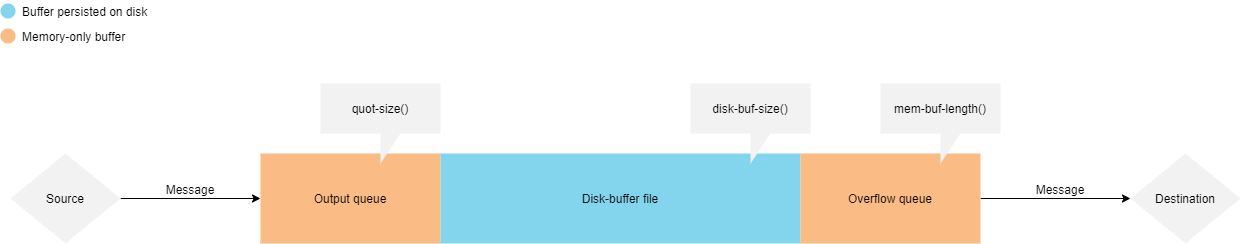
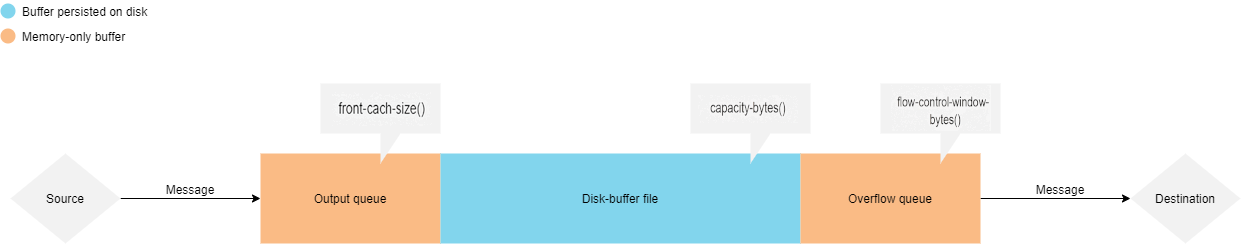
disk-buffer: replace old option keywords with the actual ones

Changed region(s): [[0.7043, 0.4016, 0.7961, 0.5164], [0.5512, 0.4303, 0.643, 0.4877], [0.2756, 0.4303, 0.3368, 0.4877]]

diff --git a/doc/_admin-guide/080_Log/020_Buffering/README.md b/doc/_admin-guide/080_Log/020_Buffering/README.md
@@ -53,21 +53,21 @@ no, {{ site.product.short_name }} handles outgoing messages the following way:
     the disk-buffer file during {{ site.product.short_name }} reload, restart or stop,
     but they cannot be persisted if in the event of power failures, or
     if {{ site.product.short_name }} crashes. By default, the output queue can hold 1000
-    messages (you can adjust this number using the quot-size() option).
+    messages (you can adjust this number using the front-cache-size() option).
 
 - *Disk-buffer file*: Disk queue. If there is no space left in the
     output queue, the message is stored on the disk-buffer file.
     Messages stored here are persisted on the disk, even in case of
     power failures or if {{ site.product.short_name }} crashes. Using the disk-buffer
     file takes considerable amount of disk I/O and processor time. The
-    size of this queue can be set with the disk-buf-size() option.
+    size of this queue can be set with the capacity-bytes() option.
 
 - *Overflow queue*: In-memory queue. This queue is used to trigger
     flow-control if it is set. The contents of the in-memory overflow
     queue are persisted to the disk-buffer file in case of {{ site.product.short_name }}
     reload, restart or stop, but they are not persisted in case of power
     failures or if {{ site.product.short_name }} crashes. Setting the size of the
-    overflow queue can be done with the mem-buf-length() option.
+    overflow queue can be done with the flow-control-window-size() option.
 
 ![]({{ site.baseurl}}/assets/images/caution.png) **CAUTION:**
 Hazard of data loss! In case of normal disk-buffers, the messages stored
@@ -83,15 +83,15 @@ failures or if {{ site.product.short_name }} crashes.
 When you use disk-based buffering, and the reliable() option is set to
 yes, {{ site.product.short_name }} handles outgoing messages the following way.
 
-The mem-buf-size() option determines when flow-control is triggered.
-After the size of the disk-buffer file reaches (disk-buf-size() minus
-mem-buf-size()), messages are written into both the disk-buffer file and
+The flow-control-window-bytes() option determines when flow-control is triggered.
+After the size of the disk-buffer file reaches (capacity-bytes() minus
+flow-control-window-bytes()), messages are written into both the disk-buffer file and
 the overflow queue, indicating that flow-control needs to slow down the
 message source. These messages are not taken out from the control window
 (governed by log-iw-size()), causing the control window to fill up.
 
 If the control window is full, the flow-control completely stops reading
-incoming messages from the source. (As a result, mem-buf-size() must be
+incoming messages from the source. (As a result, flow-control-window-bytes() must be
 at least as large as log-iw-size() times the average message size.)
 
 ### Figure 18: Handling outgoing messages in {{ site.product.short_name }} with the reliable disk-buffer option
@@ -106,18 +106,18 @@ at least as large as log-iw-size() times the average message size.)
     faster, because {{ site.product.short_name }} can skip reading from the disk, and
     deserializing the message, saving I/O and processor time. By
     default, the output queue can hold 1000 messages (you can adjust it
-    using the quot-size() option).
+    using the front-cache-size() option).
 
 - *Disk-buffer file*: Disk queue. If there is no space left in the
     output queue, the message is stored on the disk-buffer file.
     Messages stored here are persisted on the disk, and survive
     {{ site.product.short_name }} crash or power failure. Using the disk-buffer file
     takes considerable amount of disk I/O and processor time. The size
-    of this queue can be set with the disk-buf-size() option.
+    of this queue can be set with the capacity-bytes() option.
 
 - *Overflow queue*: In-memory and disk queue. This queue is used to
     trigger flow-control if it is set. Similarly to the output queue, in
     case of reliable disk-buffer in addition to storing the message in
     memory, it is stored directly in the disk-buffer file as well for
     safety reasons. Setting the size of the overflow queue can be done
-    with the mem-buf-size() option.
+    with the flow-control-window-bytes() option.

diff --git a/doc/_admin-guide/080_Log/020_Buffering/004_About_diskbuffer_files.md b/doc/_admin-guide/080_Log/020_Buffering/004_About_diskbuffer_files.md
@@ -18,31 +18,31 @@ Protocol (ALTP). Note that the Advanced Log Transport Protocol is
 available only in syslog-ng Premium Edition version 6 LTS. Of course, using the reliable(yes) option introduces a significant performance penalty as well.
 
 Both reliable and normal disk-buffers employ an in-memory output queue
-(set in quot-size()) and an in-memory overflow queue (set in
-mem-buf-size() for reliable disk-buffers, or mem-buf-length() for normal
+(set in front-cache-size()) and an in-memory overflow queue (set in
+flow-control-window-bytes() for reliable disk-buffers, or flow-control-window-size() for normal
 disk-buffers). The difference between reliable and normal disk-buffers
 is that when the reliable disk-buffer uses one of its in-memory queues,
 it also stores the message on the disk, whereas the normal disk-buffer
 stores the message only in memory. The normal disk-buffer only uses the
 disk if the in-memory output buffer is filled up completely. This
 approach has better performance (due to fewer disk I/O operations), but
-also carries the risk of losing a maximum of quot-size() plus
-mem-buf-length() number of messages in case of an unexpected power
+also carries the risk of losing a maximum of front-cache-size() plus
+flow-control-window-size() number of messages in case of an unexpected power
 failure or application crash.
 
 ## Size of the queue files
 
-Disk queue files tend to grow. Each may take up to disk-buf-size() bytes
+Disk queue files tend to grow. Each may take up to capacity-bytes() bytes
 on the disk. Due to the nature of reliable queue files, all the messages
 traversing the queue are written to disk, constantly increasing the size
 of the queue file.
 
 The disk-buffer file\'s size should be considered as the configured
-disk-buf-size() at any point of time, even if it does not have messages
+capacity-bytes() at any point of time, even if it does not have messages
 in it. Truncating the disk-buffer file can slow down disk I/O
 operations, so {{ site.product.short_name }} does not always truncate the file when it
 would be possible (see the truncate-size-ratio() option). If a large
-disk-buffer file is not desirable, you should set the disk-buf-size()
+disk-buffer file is not desirable, you should set the capacity-bytes()
 option to a smaller value.
 
 ![]({{ site.baseurl}}/assets/images/caution.png) **CAUTION:**

diff --git a/doc/_admin-guide/050_The_configuration_file/006_Modules_in_syslog-ng/001_Listing_configuration_options.md b/doc/_admin-guide/050_The_configuration_file/006_Modules_in_syslog-ng/001_Listing_configuration_options.md
@@ -57,14 +57,14 @@ The syslog-ng-cfg-helper utility has the following options:
             capacity-bytes(<number>)
             compaction(<yesno>)
             dir(<string>)
-            disk-buf-size(<number>)
+            capacity-bytes(<number>)
             flow-control-window-bytes(<nonnegative-integer>)
             flow-control-window-size(<nonnegative-integer>)
             front-cache-size(<nonnegative-integer>)
-            mem-buf-length(<nonnegative-integer>)
-            mem-buf-size(<nonnegative-integer>)
+            flow-control-window-size(<nonnegative-integer>)
+            flow-control-window-bytes(<nonnegative-integer>)
             prealloc(<yesno>)
-            qout-size(<nonnegative-integer>)
+            front-cache-size(<nonnegative-integer>)
             reliable(<yesno>)
             truncate-size-ratio(<nonnegative-float>)
         )

diff --git a/doc/_admin-guide/180_Best_practices_and_examples/005_Load_balancing_logs/000_Round_robin.md b/doc/_admin-guide/180_Best_practices_and_examples/005_Load_balancing_logs/000_Round_robin.md
@@ -29,7 +29,7 @@ destination d_lb_network {
       }; 
       destination { 
         network("myhost1" 
-          disk-buffer(mem-buf-length(10000) disk-buf-size(2000000))); 
+          disk-buffer(flow-control-window-size(10000) capacity-bytes(2000000))); 
       }; 
       flags(final); 
     }; 
@@ -41,7 +41,7 @@ destination d_lb_network {
 
     destination { 
       network("myhost2" 
-        disk-buffer(mem-buf-length(10000) disk-buf-size(2000000))); 
+        disk-buffer(flow-control-window-size(10000) capacity-bytes(2000000))); 
     }; 
     flags(final); 
     }; 

diff --git a/doc/_admin-guide/080_Log/020_Buffering/000_Enabling_reliable_diskbuffer.md b/doc/_admin-guide/080_Log/020_Buffering/000_Enabling_reliable_diskbuffer.md
@@ -21,8 +21,8 @@ destination d_BSD {
     network("127.0.0.1"
         port(3333)
         disk-buffer(
-            mem-buf-size(10000)
-            disk-buf-size(2000000)
+            flow-control-window-bytes(10000)
+            capacity-bytes(2000000)
             reliable(yes)
         )
     );

diff --git a/doc/_admin-guide/080_Log/020_Buffering/001_Enabling_normal_diskbuffer.md b/doc/_admin-guide/080_Log/020_Buffering/001_Enabling_normal_diskbuffer.md
@@ -23,8 +23,8 @@ destination d_BSD {
     network("127.0.0.1"
         port(3333)
         disk-buffer(
-            mem-buf-length(10000)
-            disk-buf-size(2000000)
+            flow-control-window-size(10000)
+            capacity-bytes(2000000)
             reliable(no)
         )
     );

diff --git a/doc/_admin-guide/080_Log/020_Buffering/002_How_to_get_information/005_How_to_process_orphan_diskbuffer.md b/doc/_admin-guide/080_Log/020_Buffering/002_How_to_get_information/005_How_to_process_orphan_diskbuffer.md
@@ -134,7 +134,7 @@ To process the messages from an orphan disk-buffer file using a separate
     ```config
     network("10.21.10.20"
         disk-buffer(
-            disk-buf-size(1048576)
+            capacity-bytes(1048576)
             reliable(yes)
             dir(/tmp/qdisk/)
     );

diff --git a/doc/_admin-guide/080_Log/010_Flow_control/000_Flow_control_multiple_destinations.md b/doc/_admin-guide/080_Log/010_Flow_control/000_Flow_control_multiple_destinations.md
@@ -23,4 +23,4 @@ only when:
 - one destination is down, and
 
 - the number of messages stored in the disk buffer of the destination
-    reaches (disk-buf-size() minus mem-buf-size()).
+    reaches (capacity-bytes() minus flow-control-window-bytes()).
